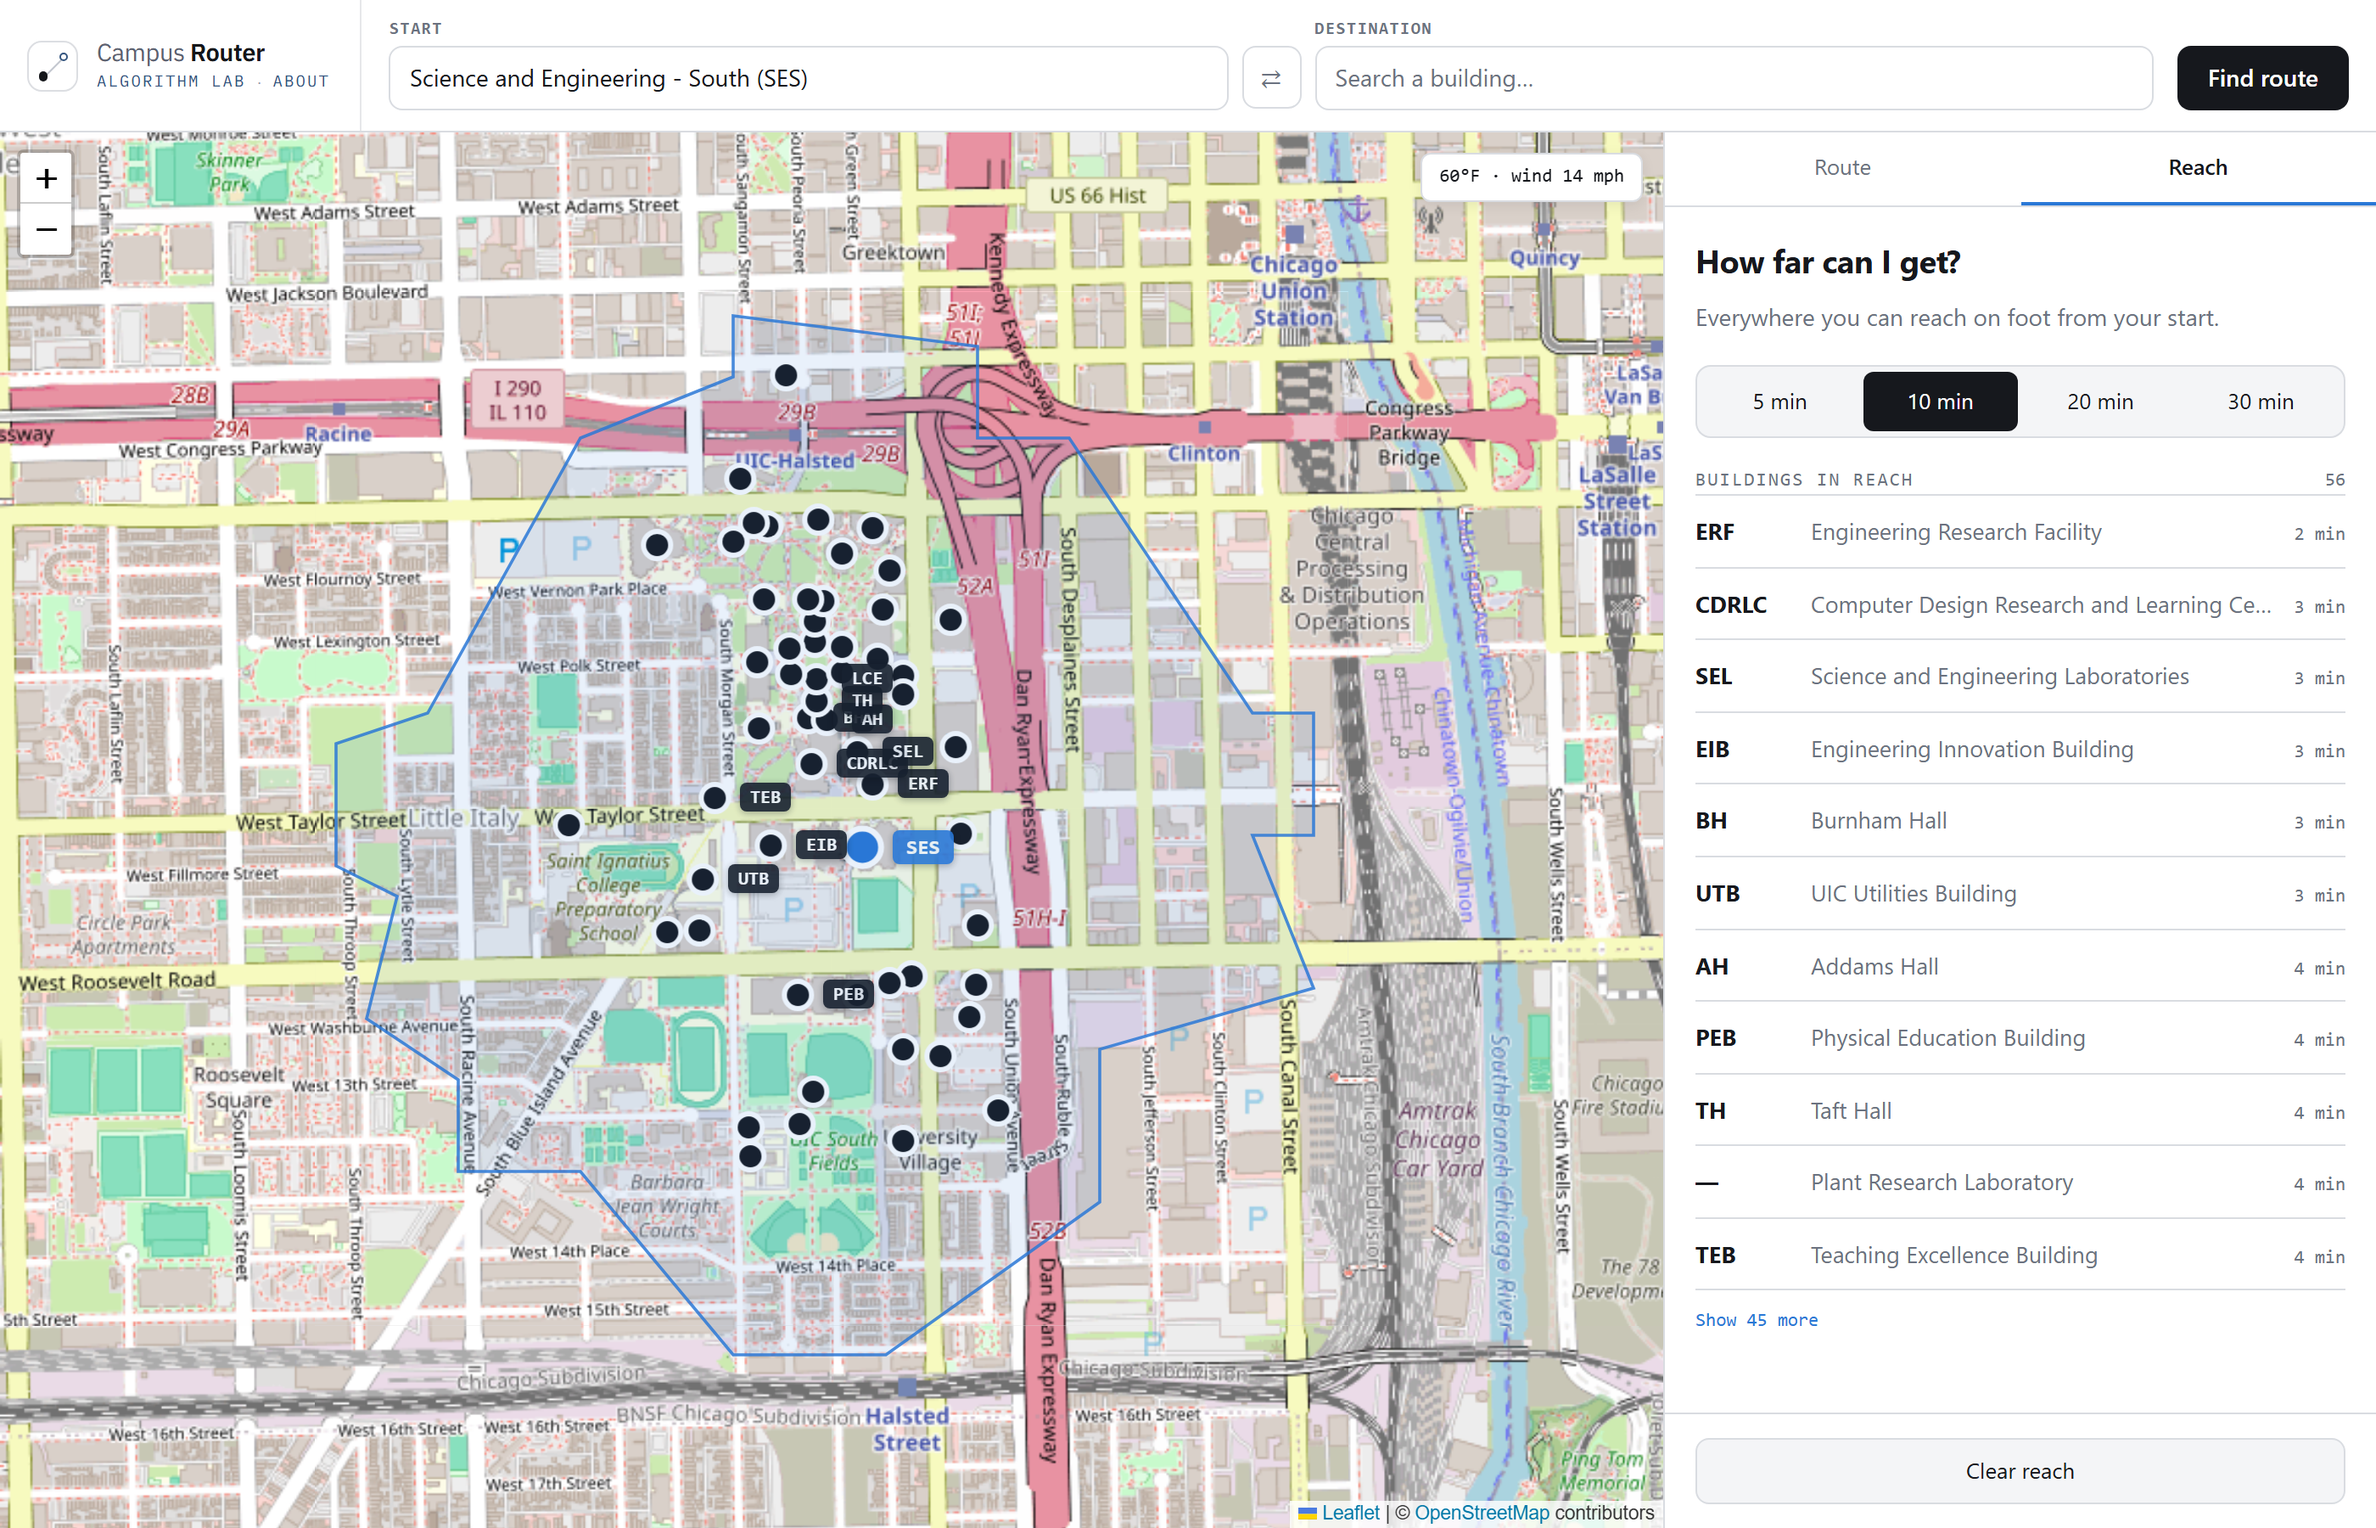
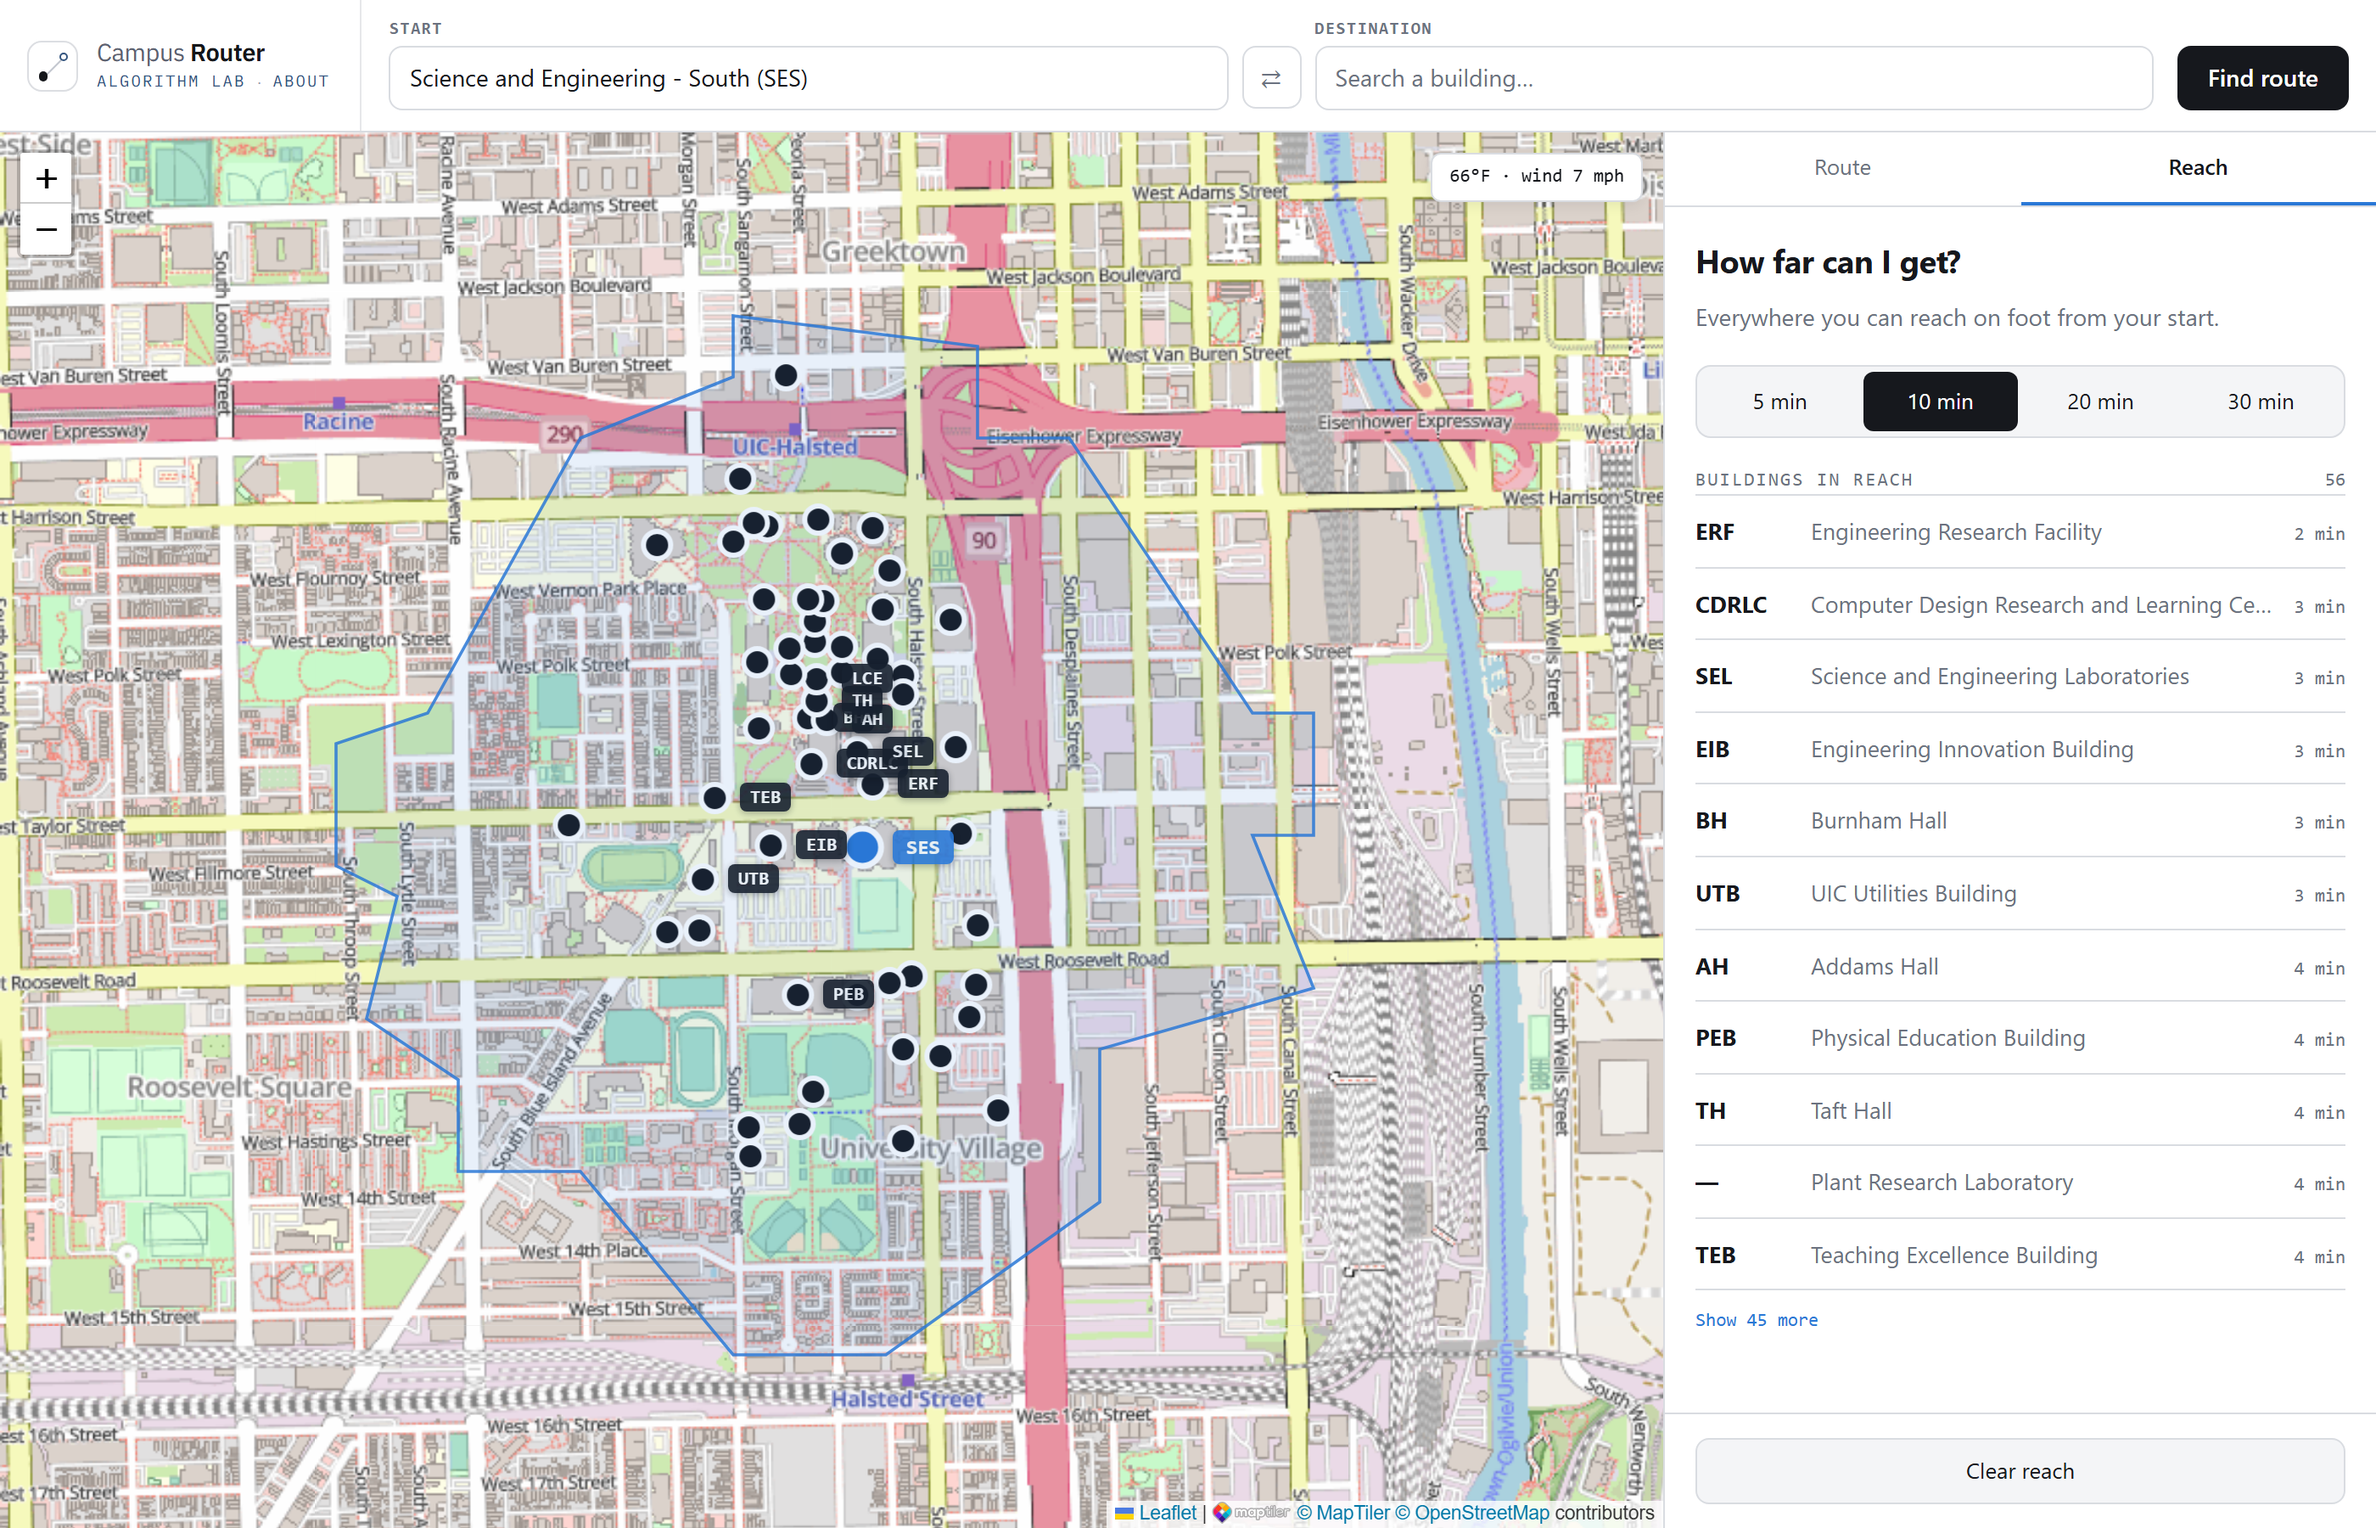
MapTiler and page polish

Changed region(s): [[0.0, 0.0622, 0.7146, 1.0]]

diff --git a/web/lib/tiles.ts b/web/lib/tiles.ts
@@ -1,10 +1,22 @@
-// the one place the basemap is set. osm asks not to back production apps, a
-// known trade for a low traffic demo
+// the one place the basemap is set. the key ships in the bundle, so restrict it
+// to our own domains in the maptiler console rather than treating it as secret
 
-export const TILE_URL = "https://tile.openstreetmap.org/{z}/{x}/{y}.png";
+const KEY = process.env.NEXT_PUBLIC_MAPTILER_KEY ?? "";
 
+// the only maptiler style that draws footpaths and named campus buildings, which
+// is what this app routes over. 256 matches leaflet's default grid
+const STYLE = "openstreetmap";
+
+export const TILE_URL = `https://api.maptiler.com/maps/${STYLE}/256/{z}/{x}/{y}.png?key=${KEY}`;
+
+export const MAPTILER_LOGO = "https://api.maptiler.com/resources/logo.svg";
+
+// maptiler requires both credits, so this is not decoration
 export const TILE_ATTRIBUTION =
-  '&copy; <a href="https://www.openstreetmap.org/copyright">OpenStreetMap</a> contributors';
+  `<a href="https://www.maptiler.com/" target="_blank" rel="noopener">` +
+  `<img src="${MAPTILER_LOGO}" alt="MapTiler" class="tile-logo" /></a> ` +
+  '<a href="https://www.maptiler.com/copyright/">&copy; MapTiler</a> ' +
+  '<a href="https://www.openstreetmap.org/copyright">&copy; OpenStreetMap</a> contributors';
 
-// the osm raster tiles stop here
+// the raster style stops here
 export const TILE_MAX_ZOOM = 19;

diff --git a/web/app/about/page.tsx b/web/app/about/page.tsx
@@ -169,11 +169,9 @@ export default function About() {
               <div className="about-row">
                 <span className="about-row-key about-mono">MAP TILES</span>
                 <span className="about-row-value">
-                  Hosted by the OpenStreetMap Foundation, under its{" "}
-                  <a href="https://operations.osmfoundation.org/policies/tiles/">
-                    tile usage policy
-                  </a>
-                  .
+                  Rendered by{" "}
+                  <a href="https://www.maptiler.com/">MapTiler</a> from the same
+                  OpenStreetMap data.
                 </span>
               </div>
               <div className="about-row">
@@ -202,8 +200,8 @@ export default function About() {
               <div className="about-label-head about-mono">PRIVACY</div>
               <div className="about-privacy-body">
                 <p>
-                  No accounts, analytics or cookies. Map tiles are the only thing
-                  loaded from another site.
+                  No accounts, analytics or cookies. Map tiles come from
+                  MapTiler.
                 </p>
               </div>
             </div>

diff --git a/web/app/lab/page.tsx b/web/app/lab/page.tsx
@@ -16,6 +16,7 @@ import {
 } from "@/lib/api";
 import { ALGORITHM_LABELS } from "@/lib/format";
 import { PLAYBACK_MS, clamp, prefersReducedMotion } from "@/lib/playback";
+import { MAPTILER_LOGO } from "@/lib/tiles";
 import {
   INITIAL,
   algorithmsFor,
@@ -326,6 +327,11 @@ export default function Lab() {
             />
             {/* the panels turn leaflet attribution off, so the credits live here */}
             <p className="grid-credit">
+              <a href="https://www.maptiler.com/" target="_blank" rel="noopener">
+                {/* eslint-disable-next-line @next/next/no-img-element */}
+                <img src={MAPTILER_LOGO} alt="MapTiler" className="tile-logo" />
+              </a>{" "}
+              <a href="https://www.maptiler.com/copyright/">© MapTiler</a> ·{" "}
               <a href="https://leafletjs.com">Leaflet</a> · Map data ©{" "}
               <a href="https://www.openstreetmap.org/copyright">OpenStreetMap</a>{" "}
               contributors · All four share one frame

diff --git a/web/app/error.tsx b/web/app/error.tsx
@@ -1,0 +1,30 @@
+"use client";
+
+export default function Error({
+  error,
+  reset,
+}: {
+  error: Error & { digest?: string };
+  reset: () => void;
+}) {
+  return (
+    <main className="shell">
+      <div className="fatal">
+        <h1 className="fatal-title">Something went wrong</h1>
+        <p className="fatal-body">
+          An unexpected error stopped this page from loading. Trying again
+          reloads it without losing the rest of the site.
+        </p>
+        {/* only the person running it can use this, so visitors never see it */}
+        {process.env.NODE_ENV === "development" ? (
+          <p className="fatal-body">
+            <code>{error.message}</code>
+          </p>
+        ) : null}
+        <button type="button" className="primary" onClick={reset}>
+          Try again
+        </button>
+      </div>
+    </main>
+  );
+}

diff --git a/web/app/globals.css b/web/app/globals.css
@@ -275,6 +275,10 @@ button {
   font-weight: 550;
 }
 
+a.primary {
+  text-decoration: none;
+}
+
 .primary:hover:not(:disabled) {
   opacity: 0.88;
 }
@@ -781,6 +785,12 @@ button {
   color: var(--muted);
 }
 
+.tile-logo {
+  height: 14px;
+  width: auto;
+  vertical-align: -3px;
+}
+
 .grid-credit {
   margin: 0;
   padding: 0 18px 14px;
@@ -1169,11 +1179,13 @@ button {
   line-height: 1.55;
 }
 
+/* a url or a stack frame has nowhere to break, and widens the page on a phone */
 .fatal code {
   font: 12px ui-monospace, SFMono-Regular, Menlo, monospace;
   background: var(--ground);
   padding: 2px 5px;
   border-radius: 4px;
+  overflow-wrap: anywhere;
 }
 
 .segmented button.is-degraded {

diff --git a/web/app/not-found.tsx b/web/app/not-found.tsx
@@ -1,0 +1,21 @@
+import type { Metadata } from "next";
+import Link from "next/link";
+
+export const metadata: Metadata = { title: "Page not found" };
+
+export default function NotFound() {
+  return (
+    <main className="shell">
+      <div className="fatal">
+        <h1 className="fatal-title">Page not found</h1>
+        <p className="fatal-body">
+          That address does not match anything on this site. The link may be out
+          of date, or the address may have a typo.
+        </p>
+        <Link className="primary" href="/">
+          Back to routing
+        </Link>
+      </div>
+    </main>
+  );
+}

diff --git a/web/app/lab/layout.tsx b/web/app/lab/layout.tsx
@@ -1,0 +1,12 @@
+import type { Metadata } from "next";
+import type { ReactNode } from "react";
+
+export const metadata: Metadata = {
+  title: "Algorithm lab",
+  description:
+    "Race Dijkstra, A*, BFS and bidirectional Dijkstra on the same campus trip, and watch each search explore",
+};
+
+export default function LabLayout({ children }: { children: ReactNode }) {
+  return children;
+}

diff --git a/web/app/about/layout.tsx b/web/app/about/layout.tsx
@@ -1,0 +1,12 @@
+import type { Metadata } from "next";
+import type { ReactNode } from "react";
+
+export const metadata: Metadata = {
+  title: "About",
+  description:
+    "What Campus Router does, where its map and weather data come from, and what it does not promise",
+};
+
+export default function AboutLayout({ children }: { children: ReactNode }) {
+  return children;
+}

diff --git a/web/app/layout.tsx b/web/app/layout.tsx
@@ -21,7 +21,7 @@ const mono = IBM_Plex_Mono({
 });
 
 export const metadata: Metadata = {
-  title: "Campus Router",
+  title: { default: "Campus Router", template: "%s · Campus Router" },
   description:
     "Walking routes across the UIC campus, with four pathfinding algorithms raced against each other",
 };

diff --git a/README.md b/README.md
@@ -215,7 +215,7 @@ The first four each have their own README with more detail: [engine](engine/READ
 ## Credits and license
 
 - The map is built from [OpenStreetMap](https://www.openstreetmap.org/). Map data © OpenStreetMap contributors, under the [ODbL](https://opendatacommons.org/licenses/odbl/1-0/). The files in `api/data/` are built from it and carry the same license. See [LICENSE-DATA](LICENSE-DATA).
-- Map tiles come from the OpenStreetMap Foundation, under their [tile usage policy](https://operations.osmfoundation.org/policies/tiles/). Weather comes from [OpenWeather](https://openweathermap.org/).
+- Map tiles are rendered by [MapTiler](https://www.maptiler.com/) from that same OpenStreetMap data. Weather comes from [OpenWeather](https://openweathermap.org/).
 - Winter walking speeds are from Fossum and Ryeng (2021), [The walking speed of pedestrians on various pavement surface conditions during winter](https://doi.org/10.1016/j.trd.2021.102934), *Transportation Research Part D*.
 - Built with Leaflet (BSD 2-Clause), react-leaflet (Hippocratic 2.1), and IBM Plex (SIL Open Font License 1.1). The other runtime dependencies are MIT, and the build and test tools add Apache 2.0, including TypeScript and Playwright.
 - The code is under the [MIT License](LICENSE).
